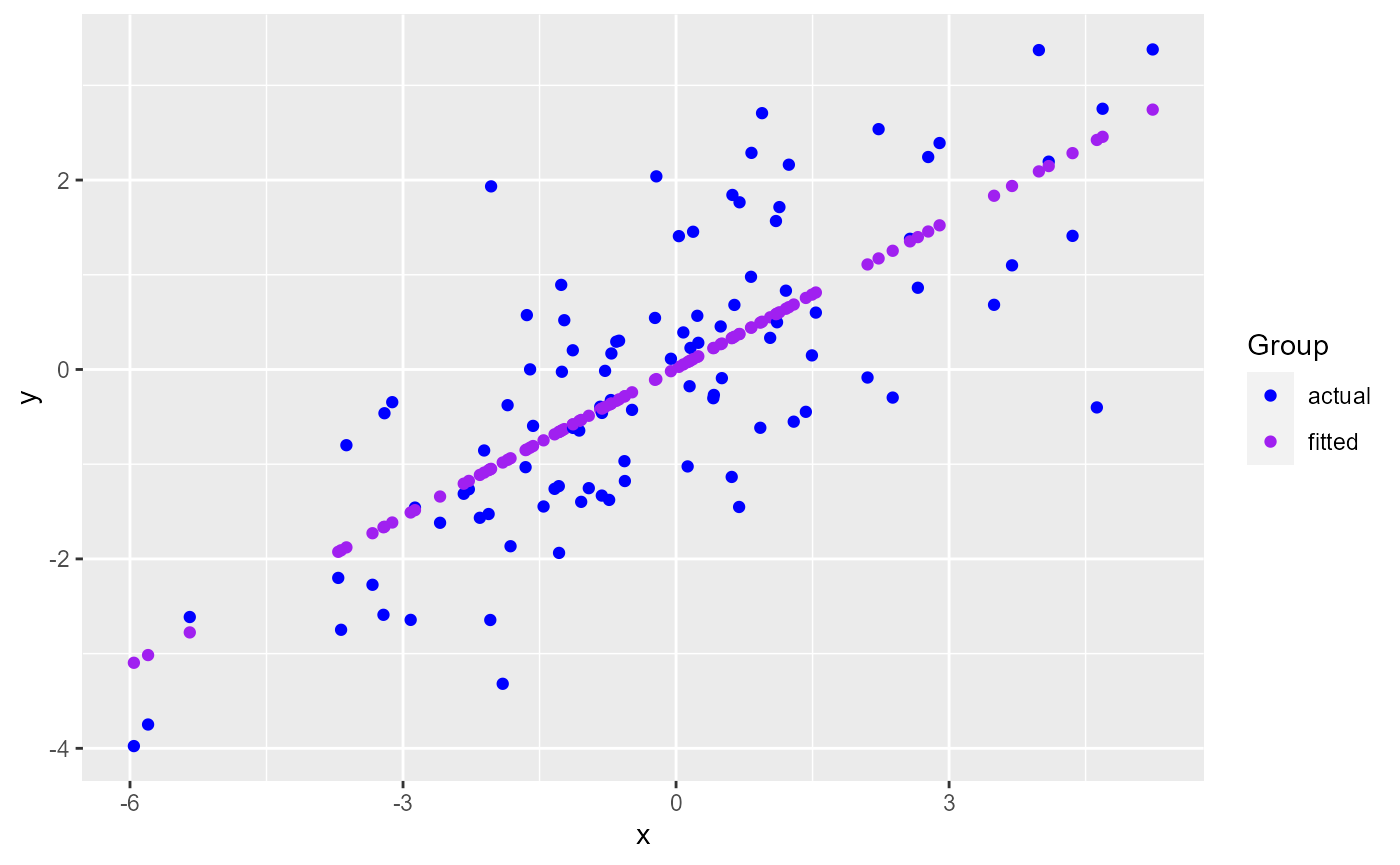
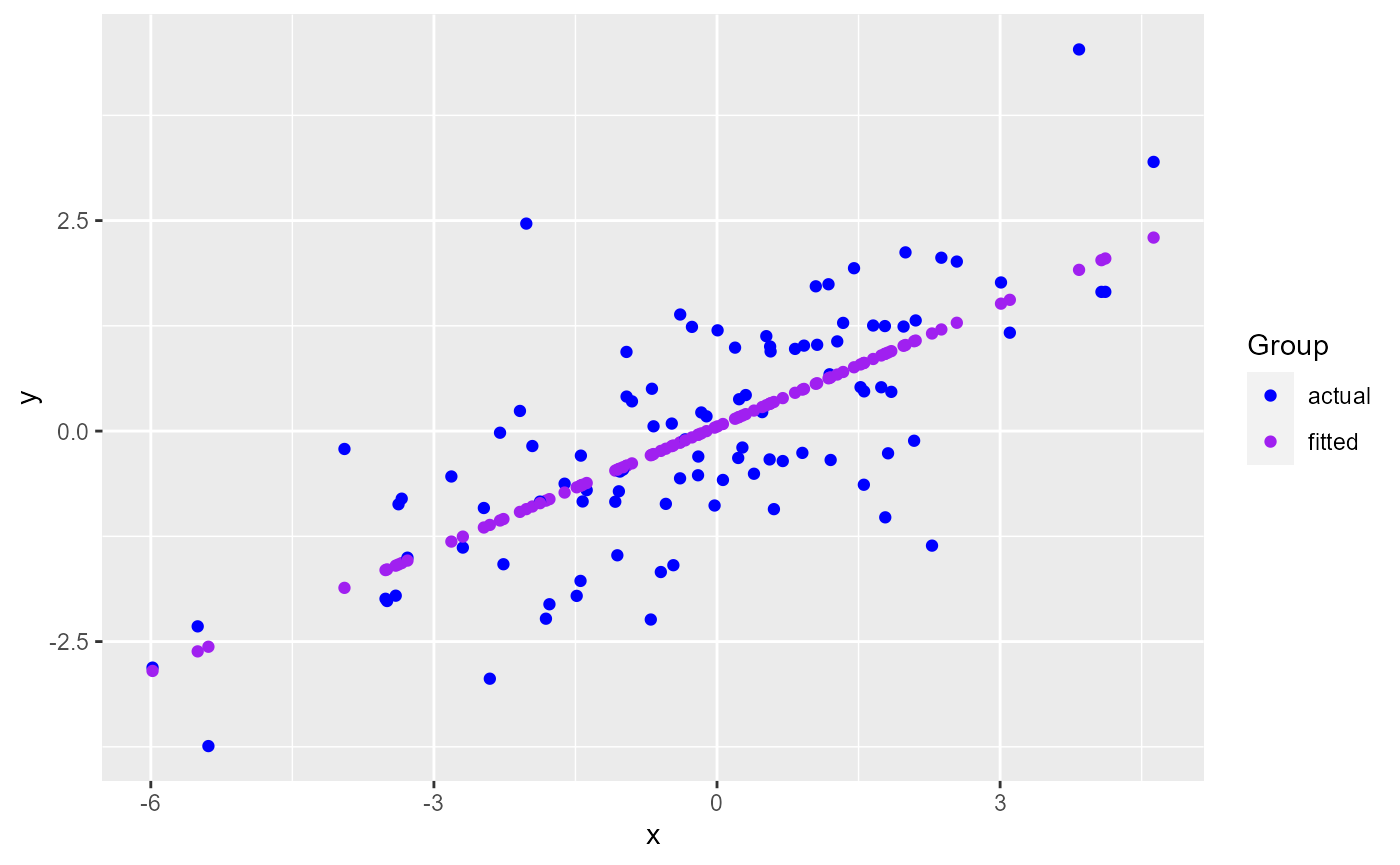
Added list of underlying ggplot layers on to reference

diff --git a/docs/reference/ggmatplot.html b/docs/reference/ggmatplot.html
@@ -195,9 +195,10 @@ used for all columns.</p></li>
       <th>xlim, ylim</th>
       <td><p>Ranges of x and y axes.</p><ul>
 <li><p>Each of them should be a two element vector specifying the lower and upper
-limits of the scale. If the larger value is given first, the scale will be
-reversed. If one of the limits is given as <code>NA</code>, the corresponding limit from
-the range of data will be used.</p></li>
+limits of the scale.</p></li>
+<li><p>If the larger value is given first, the scale will be reversed. If one of
+the limits is given as <code>NA</code>, the corresponding limit from the range of data
+will be used.</p></li>
 </ul></td>
     </tr>
     <tr>
@@ -226,11 +227,32 @@ y axis label and legend title respectively.</p></td>
     </tr>
     <tr>
       <th>...</th>
-      <td><p>Other arguments passed on to the plot. They can be used to set an
-aesthetic to a fixed value, like <code>alpha = 0.4</code> or <code>size = 2</code>. They may also
-be parameters passed on to the corresponding <a href='https://ggplot2.tidyverse.org/reference/'>geoms</a>.</p></td>
+      <td><p>Other arguments passed on to the plot. Possible arguments are those
+that can be passed on to the <a href='#plot-types'>underlying ggplot layer</a>, corresponding
+to the plot type.</p></td>
     </tr>
     </table>
+
+    <h2 class="hasAnchor" id="plot-types"><a class="anchor" href="#plot-types"></a>Plot Types</h2>
+
+    
+
+
+<p><code>ggmatplot</code>plots are built upon <code>ggplot2 layers</code>. The following is a list of
+<code>ggmatplot</code> plot types, along with their underlying
+<a href='https://ggplot2.tidyverse.org/reference/index.html#section-geoms'><code>ggplot geoms</code></a>
+or <a href='https://ggplot2.tidyverse.org/reference/index.html#section-stats'><code>stats</code></a>.</p><ul>
+<li><p><strong>point</strong> <code><a href='https://ggplot2.tidyverse.org/reference/geom_point.html'>geom_point</a></code></p></li>
+<li><p><strong>line</strong> <code><a href='https://ggplot2.tidyverse.org/reference/geom_path.html'>geom_line</a></code></p></li>
+<li><p><strong>both</strong> <code><a href='https://ggplot2.tidyverse.org/reference/geom_point.html'>geom_point</a></code> + <code><a href='https://ggplot2.tidyverse.org/reference/geom_path.html'>geom_line</a></code></p></li>
+<li><p><strong>density</strong> <code><a href='https://ggplot2.tidyverse.org/reference/geom_density.html'>geom_density</a></code></p></li>
+<li><p><strong>histogram</strong> <code><a href='https://ggplot2.tidyverse.org/reference/geom_histogram.html'>geom_histogram</a></code></p></li>
+<li><p><strong>boxplot</strong> <code><a href='https://ggplot2.tidyverse.org/reference/geom_boxplot.html'>geom_boxplot</a></code></p></li>
+<li><p><strong>dotplot</strong> <code><a href='https://ggplot2.tidyverse.org/reference/geom_dotplot.html'>geom_dotplot</a></code></p></li>
+<li><p><strong>errorplot</strong> <code><a href='https://ggplot2.tidyverse.org/reference/geom_linerange.html'>geom_pointrange</a></code></p></li>
+<li><p><strong>violin</strong> <code><a href='https://ggplot2.tidyverse.org/reference/geom_violin.html'>geom_violin</a></code></p></li>
+<li><p><strong>ecdf</strong> <code><a href='https://ggplot2.tidyverse.org/reference/stat_ecdf.html'>stat_ecdf</a></code></p></li>
+</ul>
 
 
     <h2 class="hasAnchor" id="examples"><a class="anchor" href="#examples"></a>Examples</h2>

diff --git a/docs/articles/ggmatplot.html b/docs/articles/ggmatplot.html
@@ -101,7 +101,7 @@
 <span class="va">x</span> <span class="op">&lt;-</span> <span class="fu"><a href="https://rdrr.io/r/base/c.html">c</a></span><span class="op">(</span><span class="fu"><a href="https://rdrr.io/r/stats/Normal.html">rnorm</a></span><span class="op">(</span><span class="fl">100</span>, sd <span class="op">=</span> <span class="fl">2</span><span class="op">)</span><span class="op">)</span>
 
 <span class="fu"><a href="https://rdrr.io/r/utils/head.html">head</a></span><span class="op">(</span><span class="va">x</span><span class="op">)</span>
-<span class="co">#&gt; [1] -1.285603 -2.868849 -2.916041 -1.334777 -3.680669  1.239534</span>
+<span class="co">#&gt; [1]  1.1926381  0.2691635  2.1054507 -0.1983164 -1.3809985  2.3773164</span>
 
 <span class="co"># matrix z</span>
 <span class="va">y</span> <span class="op">&lt;-</span> <span class="va">x</span> <span class="op">*</span> <span class="fl">0.5</span> <span class="op">+</span> <span class="fu"><a href="https://rdrr.io/r/stats/Normal.html">rnorm</a></span><span class="op">(</span><span class="fl">100</span>, sd <span class="op">=</span> <span class="fl">1</span><span class="op">)</span>
@@ -110,13 +110,13 @@
            fitted <span class="op">=</span> <span class="va">fit.y</span><span class="op">)</span>
 
 <span class="fu"><a href="https://rdrr.io/r/utils/head.html">head</a></span><span class="op">(</span><span class="va">z</span><span class="op">)</span>
-<span class="co">#&gt;      actual     fitted</span>
-<span class="co">#&gt; 1 -1.936681 -0.6593592</span>
-<span class="co">#&gt; 2 -1.457992 -1.4853584</span>
-<span class="co">#&gt; 3 -2.643763 -1.5099790</span>
-<span class="co">#&gt; 4 -1.260388 -0.6850136</span>
-<span class="co">#&gt; 5 -2.748422 -1.9088952</span>
-<span class="co">#&gt; 6  2.162052  0.6580366</span></code></pre></div>
+<span class="co">#&gt;       actual      fitted</span>
+<span class="co">#&gt; 1  0.6745598  0.63207948</span>
+<span class="co">#&gt; 2 -0.1953392  0.18403859</span>
+<span class="co">#&gt; 3  1.3139023  1.07494756</span>
+<span class="co">#&gt; 4 -0.3022929 -0.04276802</span>
+<span class="co">#&gt; 5 -0.7011745 -0.61656833</span>
+<span class="co">#&gt; 6  2.0589508  1.20684831</span></code></pre></div>
 <p><code>ggmatplot</code> plots vector <code>x</code> against each column of matrix <code>z</code> using the default <code>plot_type = "point"</code>. This will be represented on the resulting plot as two groups, identified using different shapes and colors.</p>
 <div class="sourceCode" id="cb2"><pre class="downlit sourceCode r">
 <code class="sourceCode R"><span class="kw"><a href="https://rdrr.io/r/base/library.html">library</a></span><span class="op">(</span><span class="va"><a href="https://github.com/xuan-liang/ggmatplot">ggmatplot</a></span><span class="op">)</span>
